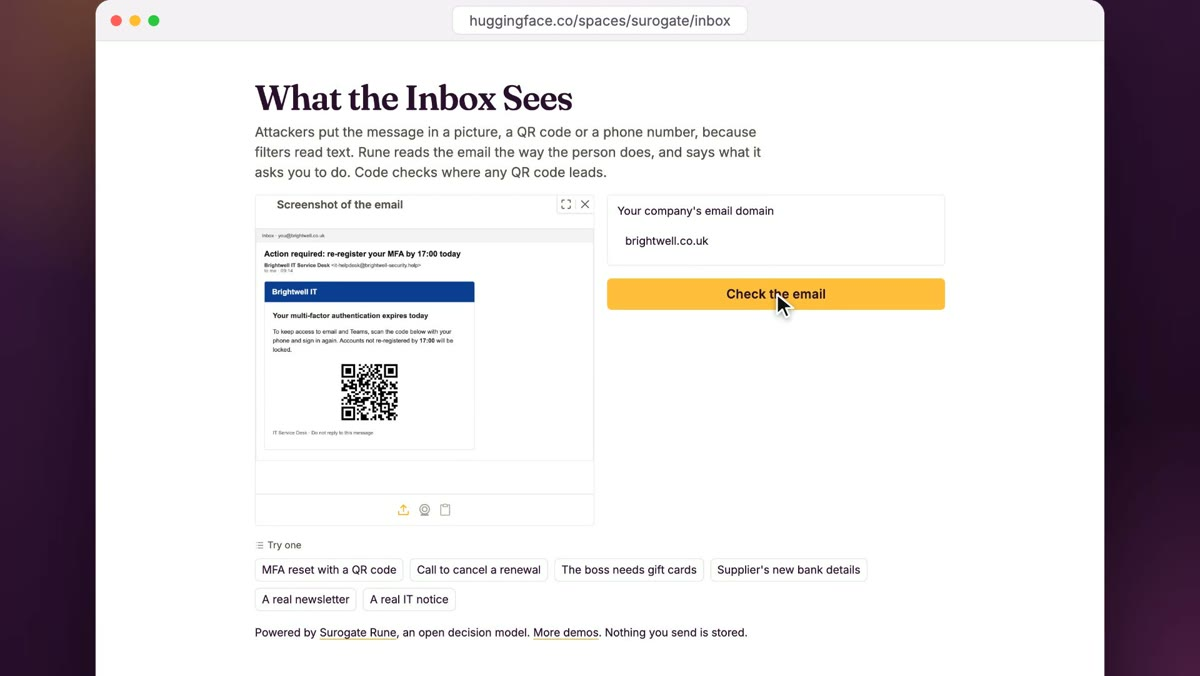
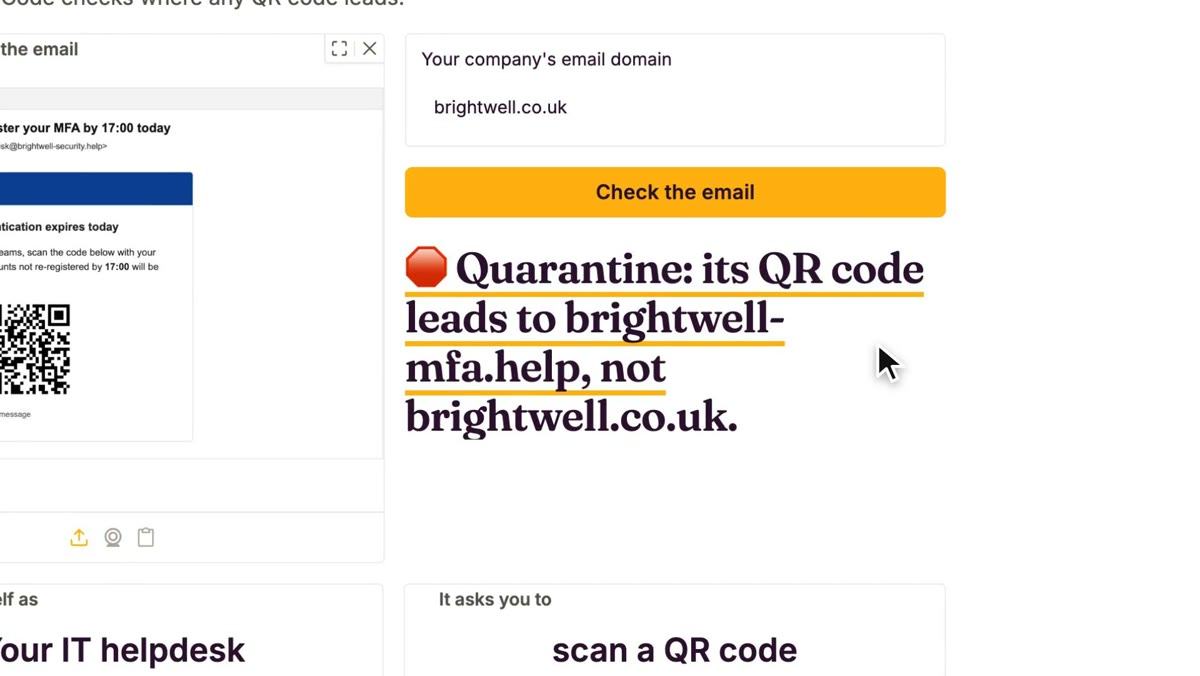
feat(labs): the hub shows the films; posters on Rune's verdict
- /labs "Rune at work": the six first filmed demos, each its poster,
  its silent loop playing while the pointer is on the card
- Every poster is the moment the camera settles on Rune's answer
- Rune at work leaves the labs sub-nav

diff --git a/app/labs.css b/app/labs.css
@@ -294,9 +294,9 @@
 .st-hub .hub-ex-head .h-section{margin:0;}
 .st-hub .hub-ex{display:grid; grid-template-columns:repeat(3,minmax(0,1fr)); gap:16px; margin-top:32px;}
 .st-hub .hub-ex-card{display:flex; flex-direction:column; gap:6px; border-radius:16px;}
-.st-hub .hub-ex-card img{width:100%; height:auto; aspect-ratio:3/2; object-fit:cover; object-position:top;
+.st-hub .hub-ex-card video{display:block; width:100%; height:auto; aspect-ratio:16/9; object-fit:cover; object-position:top;
   border-radius:14px; border:1px solid var(--line2); transition:transform .3s ease;}
-.st-hub .hub-ex-card:hover img{transform:translateY(-3px);}
+.st-hub .hub-ex-card:hover video{transform:translateY(-3px);}
 .st-hub .hub-ex-card:focus-visible{outline:3px solid var(--amber); outline-offset:4px;}
 .st-hub .hub-ex-t{display:flex; align-items:center; gap:7px; margin-top:6px; font-weight:700; font-size:16px; color:var(--txt-1);}
 .st-hub .hub-ex-k{font-size:13.5px; color:var(--txt-3);}
@@ -311,7 +311,7 @@
 }
 @media (prefers-reduced-motion:reduce){
   .st-hub .hub-wave i{animation:none; transform:scaleY(0.5);}
-  .st-hub .hub-portal,.st-hub .hub-ex-card img{transition:none;}
+  .st-hub .hub-portal,.st-hub .hub-ex-card video{transition:none;}
 }
 
 
@@ -670,7 +670,7 @@
   .st-hub .hub-ex{grid-template-columns:minmax(0,1fr); gap:10px;}
   .st-hub .hub-ex-card{display:grid; grid-template-columns:112px minmax(0,1fr); grid-template-rows:auto auto;
     column-gap:14px; row-gap:2px; align-items:center; padding:8px; border:1px solid var(--line2); background:#fff;}
-  .st-hub .hub-ex-card img{grid-row:span 2; border-radius:10px;}
+  .st-hub .hub-ex-card video{grid-row:span 2; border-radius:10px;}
   .st-hub .hub-ex-t{margin-top:0; align-self:end;}
   .st-hub .hub-ex-k{align-self:start;}
 }

diff --git a/components/labs/LabsClient.jsx b/components/labs/LabsClient.jsx
@@ -88,11 +88,18 @@ export default function LabsClient() {
               </a>
             </div>
             <div className="hub-ex reveal d1">
-              {RUNE_DEMOS.slice(0, 6).map((d) => {
+              {RUNE_DEMOS.filter((d) => d.film).slice(0, 6).map((d) => {
                 const Icon = ICONS[d.icon];
+                // the film's poster; its silent loop plays while the pointer is on the card
+                const loop = (play) => (e) => {
+                  const v = e.currentTarget.querySelector('video');
+                  if (play) v.play().catch(() => {}); else v.pause();
+                };
                 return (
-                  <a className="hub-ex-card" key={d.slug} href={`/labs/rune-examples/?demo=${d.slug}`}>
-                    <img src={d.shot} alt="" loading="lazy" width="1200" height="800" />
+                  <a className="hub-ex-card" key={d.slug} href={`/labs/rune-examples/?demo=${d.slug}`}
+                    onMouseEnter={loop(true)} onMouseLeave={loop(false)} onFocus={loop(true)} onBlur={loop(false)}>
+                    <video src={d.film.loop} poster={d.film.poster} muted loop playsInline preload="none"
+                      width="960" height="540" aria-hidden="true" />
                     <span className="hub-ex-t"><Icon size={16} strokeWidth={2} aria-hidden="true" /> {d.title}</span>
                     <span className="hub-ex-k">{d.kind}</span>
                   </a>

diff --git a/lib/labs.js b/lib/labs.js
@@ -300,7 +300,6 @@ export const LABS_NAV = [
   { href: '/labs/', label: 'Labs' },
   { href: '/labs/rune/', label: 'Rune' },
   { href: '/labs/speech/', label: 'Speech' },
-  { href: '/labs/rune-examples/', label: 'Rune at work' },
 ];
 
 /* Calibration, from the Rune model card: the Decision Index's 33 benchmarks with a right or wrong
